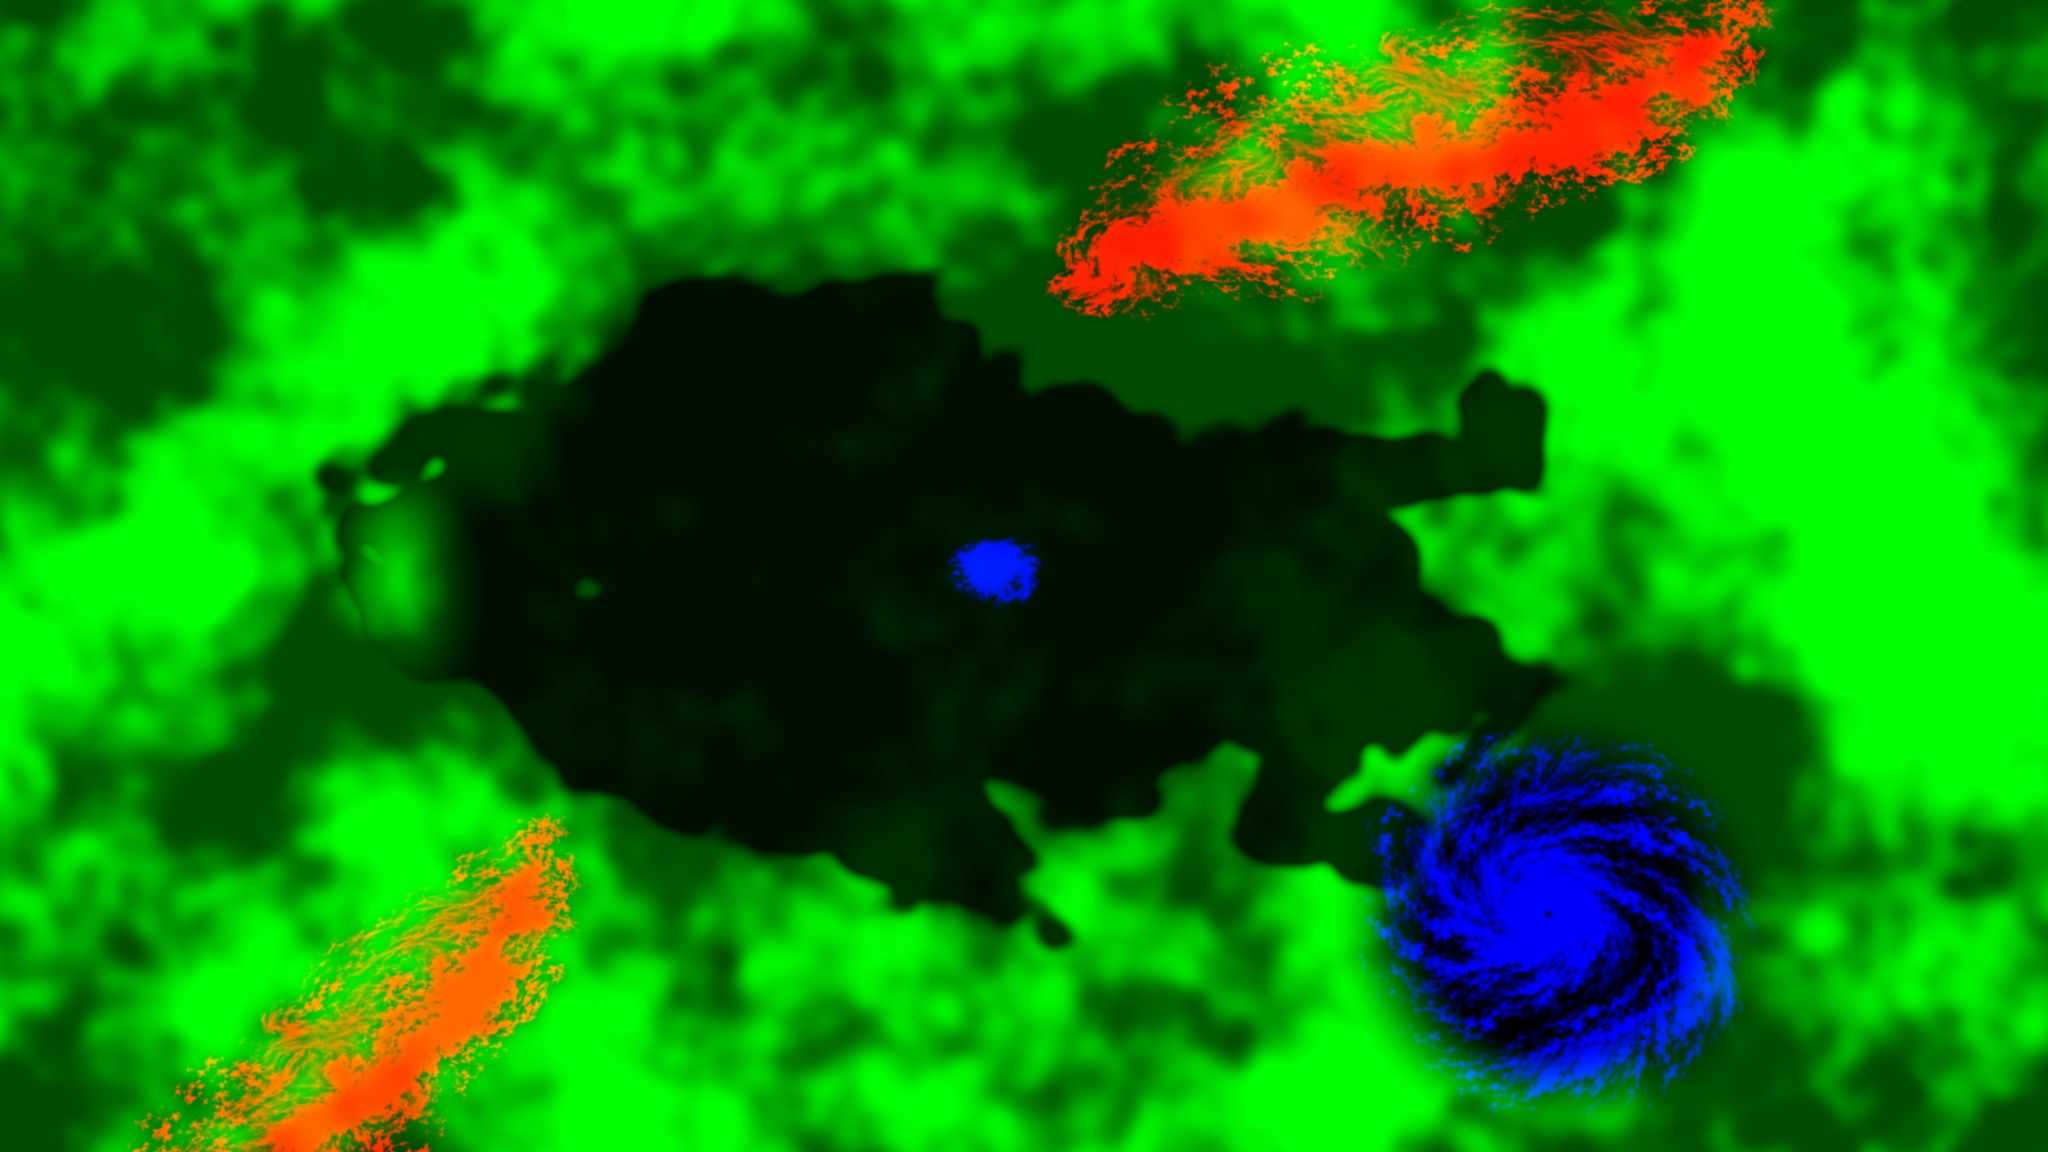
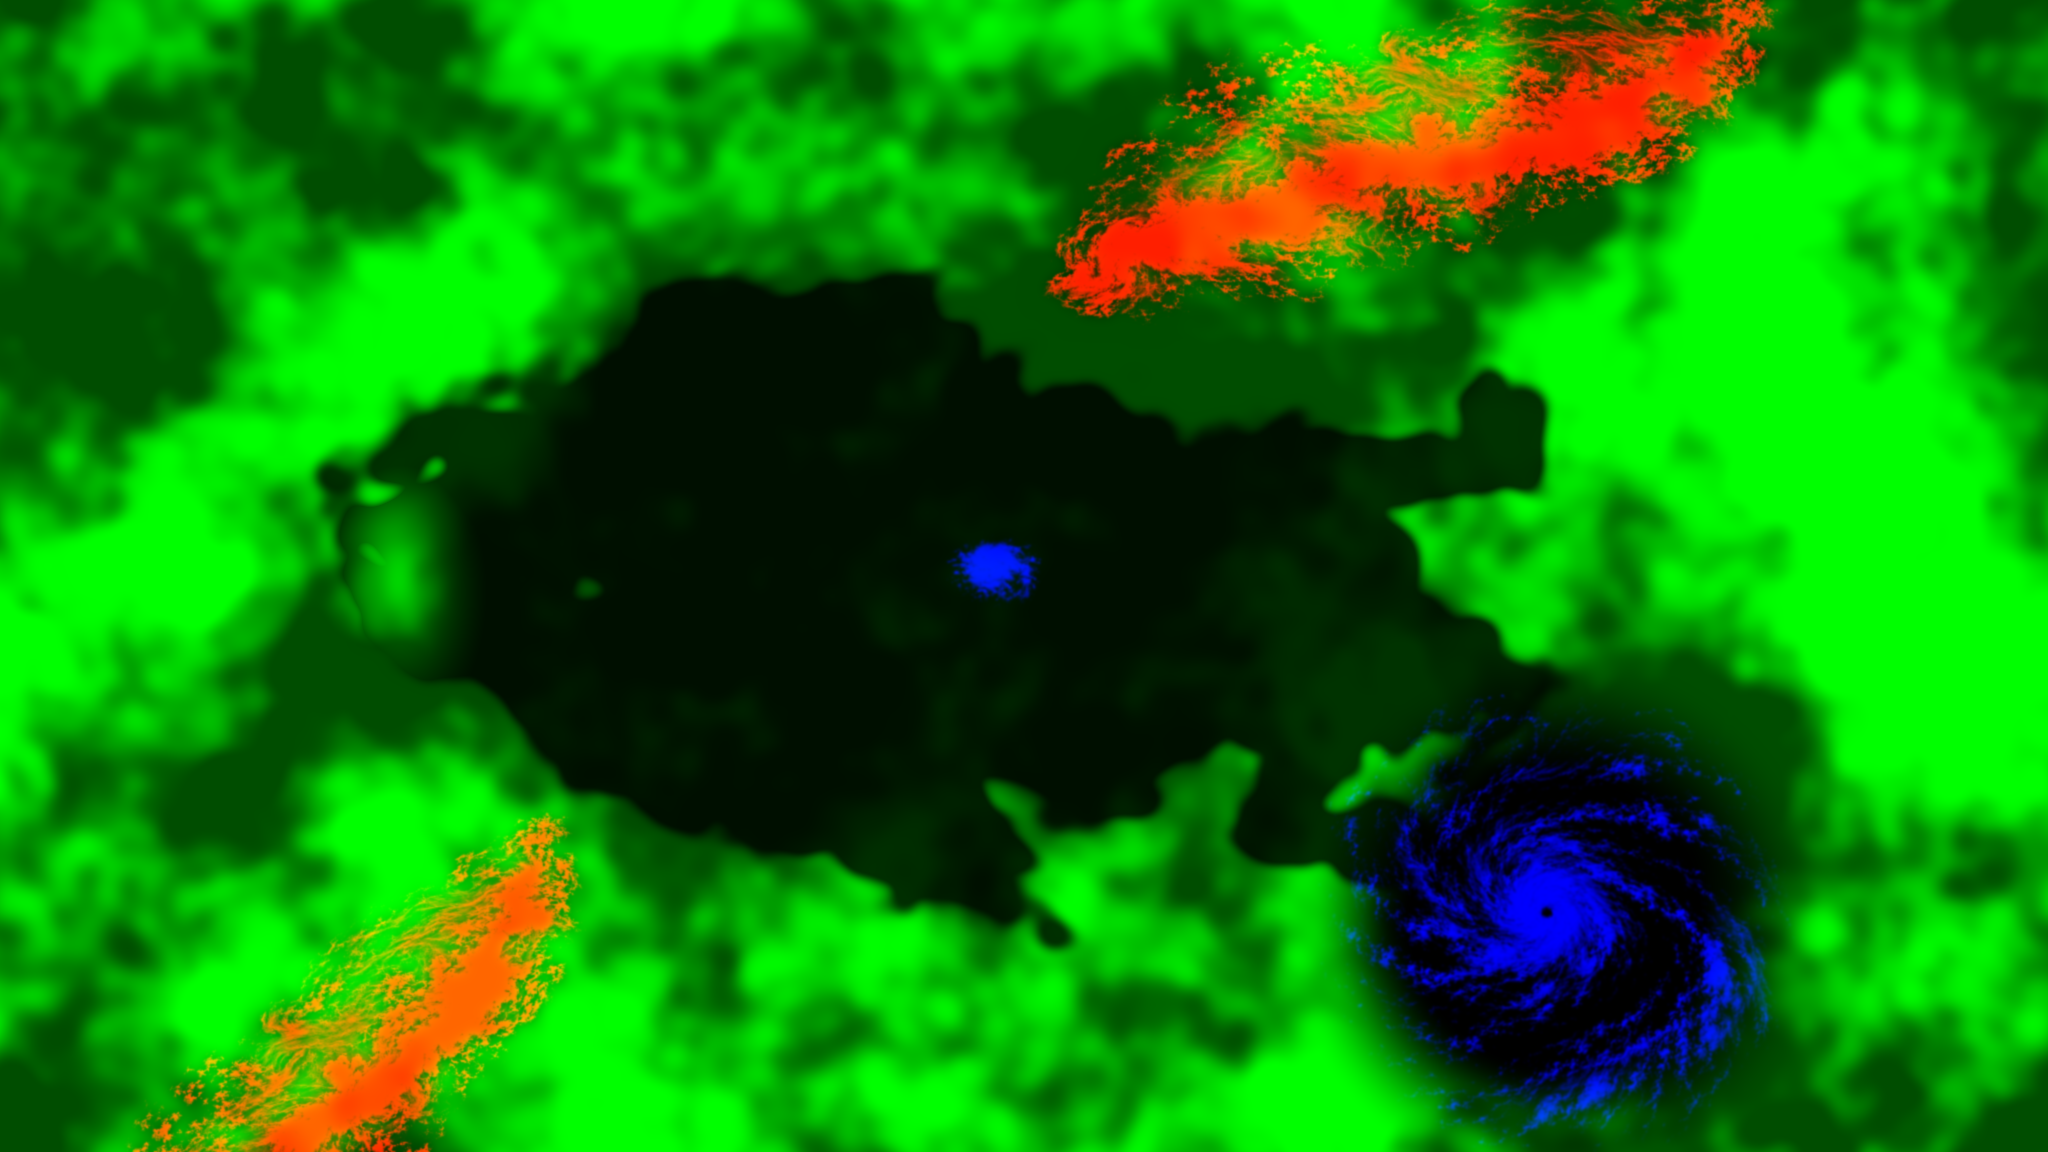
Reveal: map colours in the lowlands, haze toward the limb, ivory bones, cumulus streets, darker lake

Changed region(s): [[0.625, 0.5938, 0.9062, 1.0], [0.4688, 0.4688, 0.5312, 0.5312]]

diff --git a/src/places/reveal/sky/index.ts b/src/places/reveal/sky/index.ts
@@ -24,7 +24,7 @@ const CLOUD_LIGHT_GLSL = /* glsl */ `
 vec3 cloudLight(vec2 xz, float facing, float thick, float high) {
   float mu = limbCos(xz);
   float sun = uSunDir.y * (0.3 + 1.3 * clamp(facing, 0.0, 1.0)) * (0.5 + 0.5 * thick);
-  vec3 c = 0.92 * (uSunColour * sun + uSkyColour * 0.9) / 3.14159;
+  vec3 c = 0.8 * (uSunColour * sun + uSkyColour * 0.9) / 3.14159;
   float air = 1.0 - exp(-0.0125 * (1.0 - 0.6 * high) / max(mu, 0.12));
   return mix(c, uAirColour * 0.7, air);
 }`;
@@ -70,8 +70,8 @@ void main() {
   vec3 frontColour = cloudLight(mid, 0.2 + 0.55 * front.y + 0.5 * frontSelf, 0.5 + 0.5 * front.x, 0.5) * (0.55 + 0.6 * front.y);
   vec3 highColour = cloudLight(up, 0.6, 0.6, 1.0);
   float a = low.x * 0.94;
-  float m = front.x * 0.8;
-  float b = high * 0.2;
+  float m = front.x * 0.6;
+  float b = high * 0.13;
   vec3 colour = lowColour * a * (1.0 - m) * (1.0 - b) + frontColour * m * (1.0 - b) + highColour * b;
   float alpha = 1.0 - (1.0 - a) * (1.0 - m) * (1.0 - b);
   gl_FragColor = vec4(colour * (1.0 - uSolo), alpha * (1.0 - uSolo)) * uArrive;
@@ -104,7 +104,7 @@ void main() {
   float self = clamp(0.5 + 3.0 * (seenLight - sunward), 0.0, 1.0);
   // Only the wall round the eye is whole. Out along the arms the cloud is bands with sea between, thinner the farther out.
   float open = smoothstep(0.08, 0.42, r);
-  float thick = smoothstep(mix(0.3, 0.46, open), mix(0.8, 0.9, open), seenLight) * (1.0 - smoothstep(0.7, 0.98, r)) * mix(1.0, 0.8, open);
+  float thick = smoothstep(mix(0.3, 0.36, open), mix(0.8, 0.86, open), seenLight) * (1.0 - smoothstep(0.7, 0.98, r)) * mix(1.0, 0.8, open);
   float tall = smoothstep(0.45, 0.9, seenLight);
   vec3 colour = cloudLight(vWorld.xz, 0.1 + 0.4 * seenLight + 0.7 * self, 0.5 + 0.5 * tall, 0.5 * tall) * (0.42 + 0.62 * seenLight);
   float alpha = clamp(thick, 0.0, 0.97);
@@ -138,13 +138,13 @@ void main() {
   vec2 bend = texture2D(uCloudTile, vUv * 0.7 + uTime * vec2(0.004, -0.003)).rg - 0.5;
   vec2 q = vUv + bend * 0.035;
   float seenLight = lightOf(q);
-  float thick = smoothstep(0.1, 0.55, seenLight) * (1.0 - smoothstep(0.78, 1.0, length(vUv * 2.0 - 1.0)));
+  float thick = smoothstep(0.16, 0.7, seenLight) * (1.0 - smoothstep(0.78, 1.0, length(vUv * 2.0 - 1.0)));
   // This place's sun lights it: a tower stands bright on its sunward side and throws its shade down the far one.
   vec2 sunUv = normalize(uSunDir.xz) * vec2(1.0 / 430.0, -1.0 / 330.0);
   float sunward = lightOf(q + sunUv * 9.0);
   float lee = lightOf(q - sunUv * 22.0);
   float self = clamp(0.5 + 2.6 * (seenLight - sunward) - 0.9 * max(lee - seenLight, 0.0), 0.0, 1.0);
-  vec3 colour = cloudLight(vWorld.xz, 0.12 + 0.82 * self, 0.8, 0.6) * (0.3 + 0.82 * pow(seenLight, 1.7));
+  vec3 colour = cloudLight(vWorld.xz, 0.08 + 0.8 * self, 0.8, 0.6) * (0.25 + 0.75 * pow(seenLight, 1.7));
   // The light of the flashes comes through the cloud from inside: soft, blue white, brightest where the cloud is thin over it.
   vec3 glow = vec3(0.0);
   for (int i = 0; i < 4; i++) {
@@ -268,7 +268,7 @@ export function create(ctx: Context): Piece {
     uVeil: { value: data('mat/veil.jpg', true) },
   });
   sheet('storm', quad(AT.storm, 215, 165, 7, 0.03), STORM_FRAGMENT, { uPicture: { value: data('mat/storm.jpg', false) } });
-  sheet('cyclone', quad(AT.cyclone, 900, 900, 6, 0), CYCLONE_FRAGMENT, { uPicture: { value: data('mat/cyclone.jpg', false) } });
+  sheet('cyclone', quad(AT.cyclone, 1080, 1080, 6, 0), CYCLONE_FRAGMENT, { uPicture: { value: data('mat/cyclone.jpg', false) } });
   const centre = { x: LIMB.cx, y: LIMB.cy };
   const ring = (inner: number, outer: number): THREE.BufferGeometry =>
     new THREE.RingGeometry(inner * LIMB.r * KM, outer * LIMB.r * KM, 720, 1).rotateX(-Math.PI / 2).translate(X(centre.x), 12, Z(centre.y));

diff --git a/src/places/reveal/land/index.ts b/src/places/reveal/land/index.ts
@@ -141,8 +141,8 @@ void main() {
   // ---- the colour of this place: cold. The growth of the lowlands is dark slate and teal, the rock blue grey, the high crests the pale of old bone. ----
   lum = dot(ground, vec3(0.3, 0.55, 0.15));
   float growth = clamp((ground.g - max(ground.r, ground.b)) / max(lum, 0.02) * 4.0, 0.0, 1.0) * land;
-  ground = mix(ground, lum * vec3(0.42, 0.68, 0.78), 0.85 * growth);
-  ground = mix(ground, mix(vec3(lum), ground, 0.85) * mix(vec3(0.92, 0.99, 1.09), vec3(1.0), smoothstep(0.2, 0.5, height)), land);
+  ground = mix(ground, lum * vec3(0.3, 0.7, 0.62), 0.4 * growth);
+  ground = mix(ground, mix(vec3(lum), ground, 0.85) * mix(vec3(0.97, 1.0, 1.03), vec3(1.0), smoothstep(0.2, 0.5, height)), land);
   // Only near the top of the rise does the body come together: the great ranges stand pale as old bone, the country between them falls dark and cold.
   // Near the ground the country is warm tan under a soft light, its shade open.
   float near = (1.0 - smoothstep(150.0, 520.0, uViewKm)) * land;
@@ -206,9 +206,9 @@ void main() {
   if (lakeR < 1.3) {
     vec2 w = lakeAt + 0.2 * vec2(vnoise(lakeAt * 2.7 + 3.0), vnoise(lakeAt * 2.7 + 17.0));
     float swirl = vnoise(w * 5.0 + 2.4 * vnoise(w * 2.1 + 3.0 + uTime * 0.02));
-    float amber = max(smoothstep(0.7 + 0.24 * swirl, 0.99, lakeR), smoothstep(0.08, 0.55, shallow) * smoothstep(0.55, 0.85, lakeR));
+    float amber = max(smoothstep(0.6 + 0.3 * swirl, 0.97, lakeR), smoothstep(0.08, 0.55, shallow) * smoothstep(0.55, 0.85, lakeR));
     float paler = smoothstep(0.25, 0.9, shallow + 0.5 * (swirl - 0.4));
-    vec3 eye = mix(vec3(0.003, 0.006, 0.014), mix(vec3(0.055, 0.026, 0.004), vec3(0.24, 0.13, 0.022), paler), amber);
+    vec3 eye = mix(vec3(0.0015, 0.0035, 0.009), mix(vec3(0.085, 0.036, 0.004), vec3(0.3, 0.15, 0.022), paler), amber);
     bed = mix(bed, eye, 1.0 - smoothstep(1.12, 1.3, lakeR));
   }
   vec3 water = bed * light / 3.14159;
@@ -240,15 +240,19 @@ void main() {
   float lobe = exp(-t2) / (3.14159 * rough * rough);
   float fresnel = 0.02 + 0.98 * pow(1.0 - mu * 0.9, 5.0);
   water += uSkyColour * (0.005 + 0.2 * fresnel) * sparkle * (0.4 + 0.6 * shade);
+  // On the lake, from near, the wind is seen on the water: lanes of ruffled surface that take the sky.
+  water += uSkyColour * 0.006 * (sparkle - 0.85) * inLakeWater * (1.0 - smoothstep(0.2, 0.6, pixelKm));
   water += uSunColour * vec3(0.9, 0.95, 1.0) * lobe * 0.004 * shade * (0.55 + 0.45 * sparkle);
-  water += uSunColour * vec3(0.88, 0.94, 1.0) * 0.0075 * exp(-lean * lean / 0.0062) * (0.5 + 0.5 * shade) * (0.25 + 0.75 * sparkle) * (0.6 + 0.8 * calm);
+  water += uSunColour * vec3(0.88, 0.94, 1.0) * 0.0085 * exp(-lean * lean / 0.0036) * (0.5 + 0.5 * shade) * (0.25 + 0.75 * sparkle) * (0.6 + 0.8 * calm);
 
   vec3 colour = mix(water, earth, land);
 
   // ---- the air between the surface and the eye: more of it toward the edge of the planet, less over the high ground ----
   float path = 1.0 / max(mu, 0.12);
   float far = smoothstep(120.0, 900.0, uViewKm);
-  float air = 1.0 - exp(-mix(0.03, 0.05, far) * path * (1.0 - 0.5 * height * land));
+  // From orbit the haze is thin straight down and grows toward the edge of the planet, where it lifts the darks to blue grey.
+  float beyond = max(path - 1.5, 0.0);
+  float air = 1.0 - exp(-(mix(0.014, 0.011, far) * path + 0.013 * far * beyond * beyond) * (1.0 - 0.5 * height * land));
   colour = mix(colour, mix(uAirColour, vec3(0.2, 0.27, 0.38), 0.5 * far) * (0.4 + 0.6 * shade), air);
   colour += glow * (1.0 - 0.5 * air);
 

diff --git a/src/places/reveal/shared/weather.ts b/src/places/reveal/shared/weather.ts
@@ -46,12 +46,12 @@ float lowPicture(vec2 w) {
   float pic = 0.0;
   if (away < 1.0) {
     // Small cumulus stand in streets along the wind, with clear lanes between: the photograph's puffs, kept where a street runs.
-    float puff = seen(texture2D(uMatPopcorn, mat2(0.8, 0.6, -0.6, 0.8) * w / 140.0 + vec2(0.13, 0.4)).rgb, 0.22, 0.85);
+    float puff = seen(texture2D(uMatPopcorn, mat2(0.8, 0.6, -0.6, 0.8) * w / 250.0 + vec2(0.13, 0.4)).rgb, 0.2, 0.8);
     float street = texture2D(uCloudTile, mat2(0.9, 0.44, -0.44, 0.9) * w / vec2(330.0, 170.0) + vec2(0.4, 0.1), 1.0).b;
-    pic += (1.0 - away) * puff * smoothstep(0.42, 0.7, street);
+    pic += (1.0 - away) * puff * smoothstep(0.34, 0.62, street);
   }
   if (away > 0.0) {
-    float streak = seen(texture2D(uMatStreaks, mat2(0.97, -0.24, 0.24, 0.97) * w / vec2(1700.0, 1350.0) + vec2(0.3, 0.7)).rgb, 0.2, 0.85);
+    float streak = seen(texture2D(uMatStreaks, mat2(0.97, -0.24, 0.24, 0.97) * w / vec2(1700.0, 1350.0) + vec2(0.3, 0.7)).rgb, 0.17, 0.85);
     pic += away * streak * (0.4 + 0.6 * streak);
   }
   return pic;
@@ -69,10 +69,10 @@ vec2 lowField(vec2 at) {
   // The sky stands clear over the lake of the Eye, where the rise begins.
   float amount = coverAt(at).g * smoothstep(100.0, 230.0, length(at - vec2(${f(X(AT.lake.x))}, ${f(Z(AT.lake.y))})));
   float slow = 0.6 * texture2D(uCloudTile, w / 2900.0 + vec2(0.15, 0.55), 4.0).b + 0.4 * texture2D(uCloudTile, w / 1100.0 + vec2(0.7, 0.2), 3.5).b;
-  float field = amount * (0.12 + 0.88 * smoothstep(0.34, 0.72, slow + 0.2 * (amount - 0.6)));
+  float field = amount * (0.26 + 0.74 * smoothstep(0.34, 0.72, slow + 0.2 * (amount - 0.6)));
   float pic = lowPicture(w);
   // The field takes its share of the photograph's cloud softly: thick here, thin there, and nowhere cut to an edge.
-  float thick = min(1.0, 1.25 * pic) * smoothstep(0.0, 0.5, field);
+  float thick = min(1.0, 1.1 * pic) * smoothstep(0.0, 0.5, field);
   return vec2(thick, pic);
 }
 

diff --git a/assets-src/reveal/sky/make_cover.py b/assets-src/reveal/sky/make_cover.py
@@ -23,7 +23,7 @@ HIGH = WIDE * 9 / 16
 # The fronts: centre x and y (px of the master), half size (px), turn (degrees). weather.ts holds the same four numbers for each.
 FRONTS = [(4950.0, -180.0, 1250.0, 22.0), (500.0, 3750.0, 1150.0, -8.0)]
 # The cyclone and the storm: centre, half sizes (px of the master), as sky/index.ts places their sheets.
-CYCLONE = (5557.0, 3007.0, 900.0, 900.0)
+CYCLONE = (5557.0, 3007.0, 1080.0, 1080.0)
 STORM = (79.14 + 0.535 * 5872.86, 44.52 + 0.4563 * 3305.24, 215.0, 165.0)
 MAP_A = (2983.67, 1727.13, 5295.59)
 
@@ -62,7 +62,7 @@ for cx, cy, half, turn in FRONTS:
 blue = np.zeros((H, W), np.float32)
 for (cx, cy, hx, hy), name in ((CYCLONE, 'cyclone'), (STORM, 'storm')):
     pic = luma(os.path.join(PUB, 'mat', f'{name}.jpg'))
-    blue = np.maximum(blue, step(0.05, 0.6, read(pic, (px - cx) / (2 * hx) + 0.5, (py - cy) / (2 * hy) + 0.5)))
+    blue = np.maximum(blue, step(0.3, 0.8, read(pic, (px - cx) / (2 * hx) + 0.5, (py - cy) / (2 * hy) + 0.5)))
 
 # The land, from the relief of the widest map.
 relief = np.asarray(Image.open(os.path.join(PUB, 'land', 'relief-a.png')).convert('RGB'), dtype=np.float32)[..., 2] / 255.0
